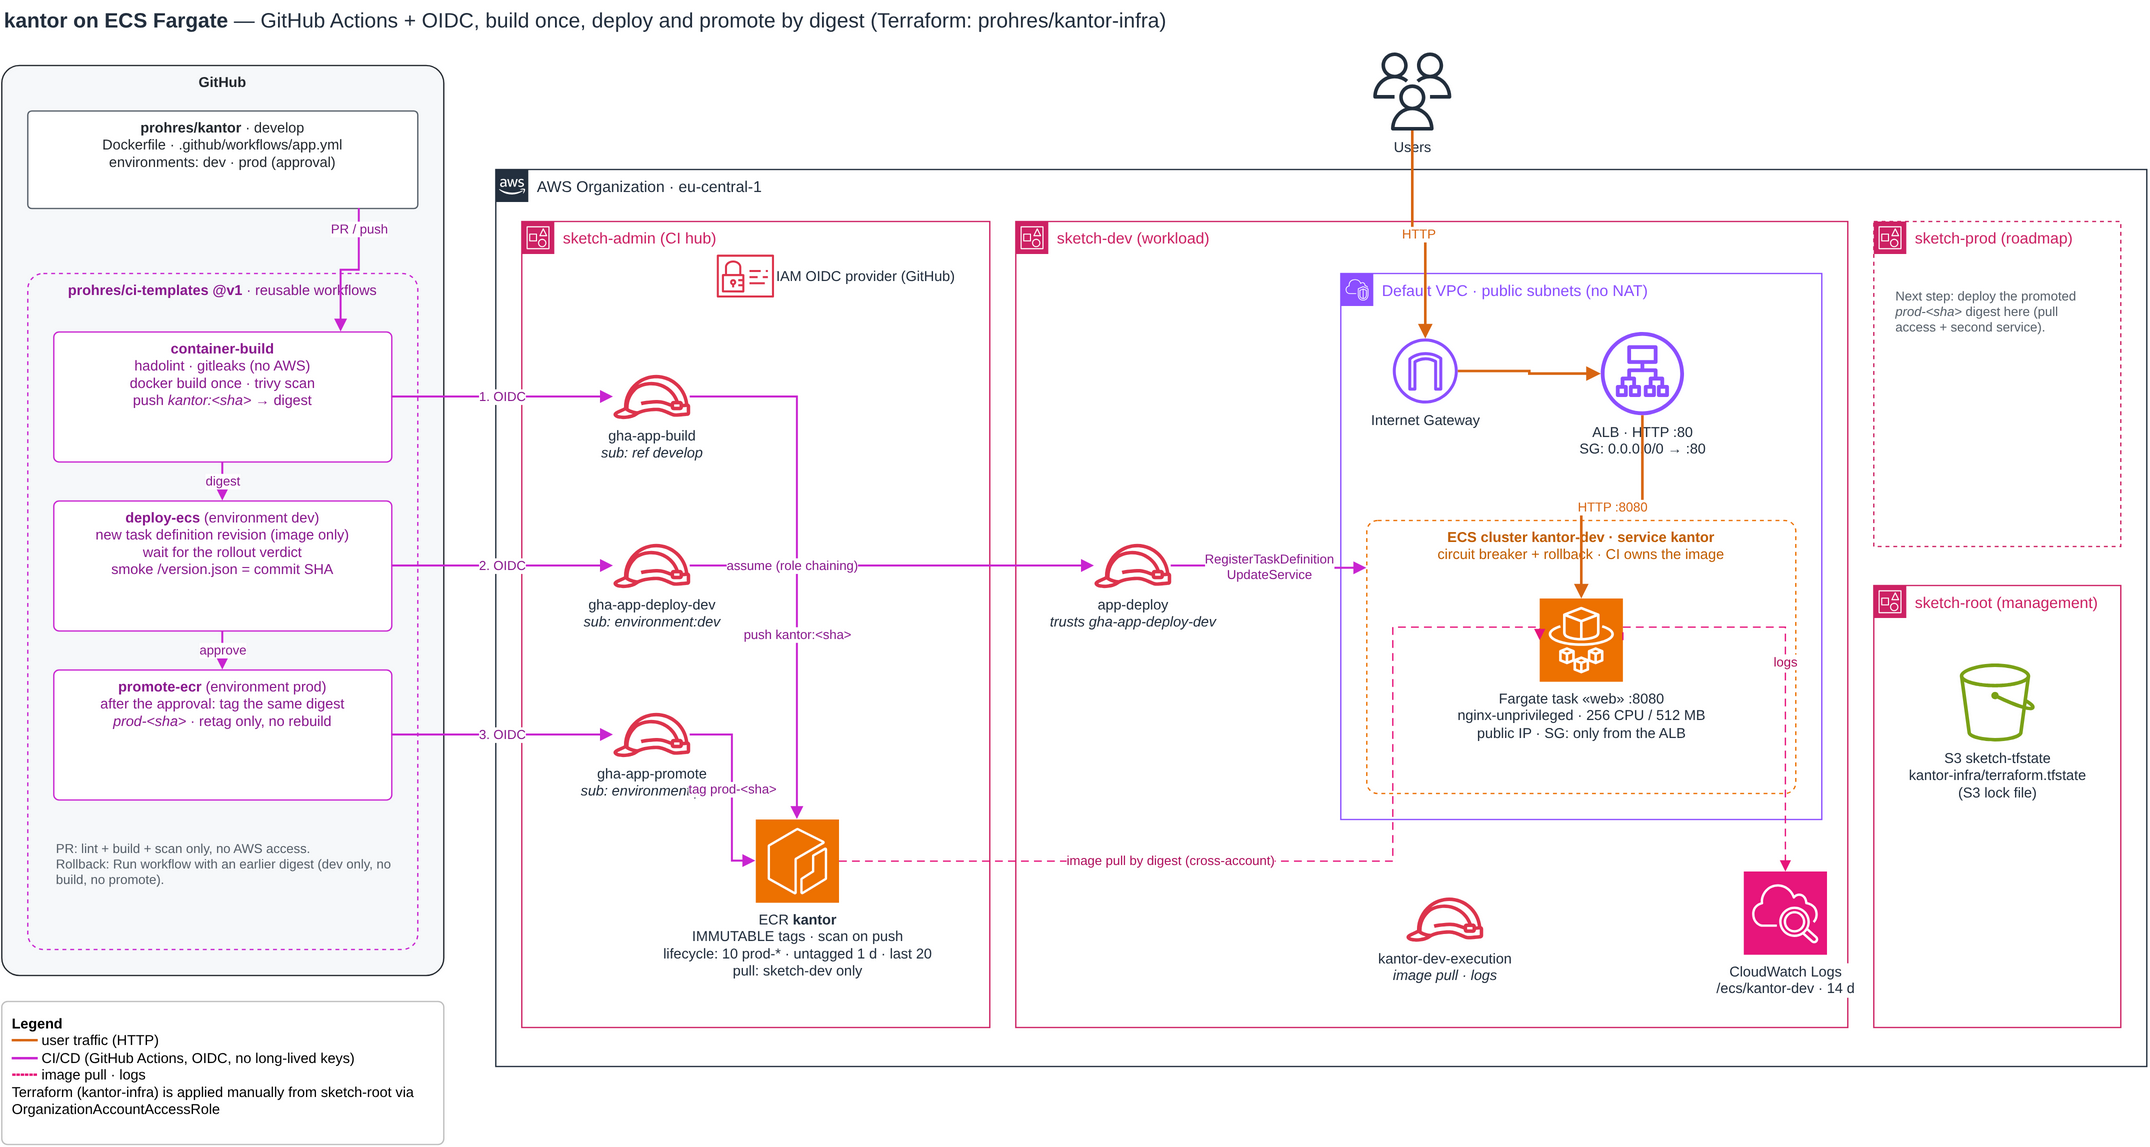
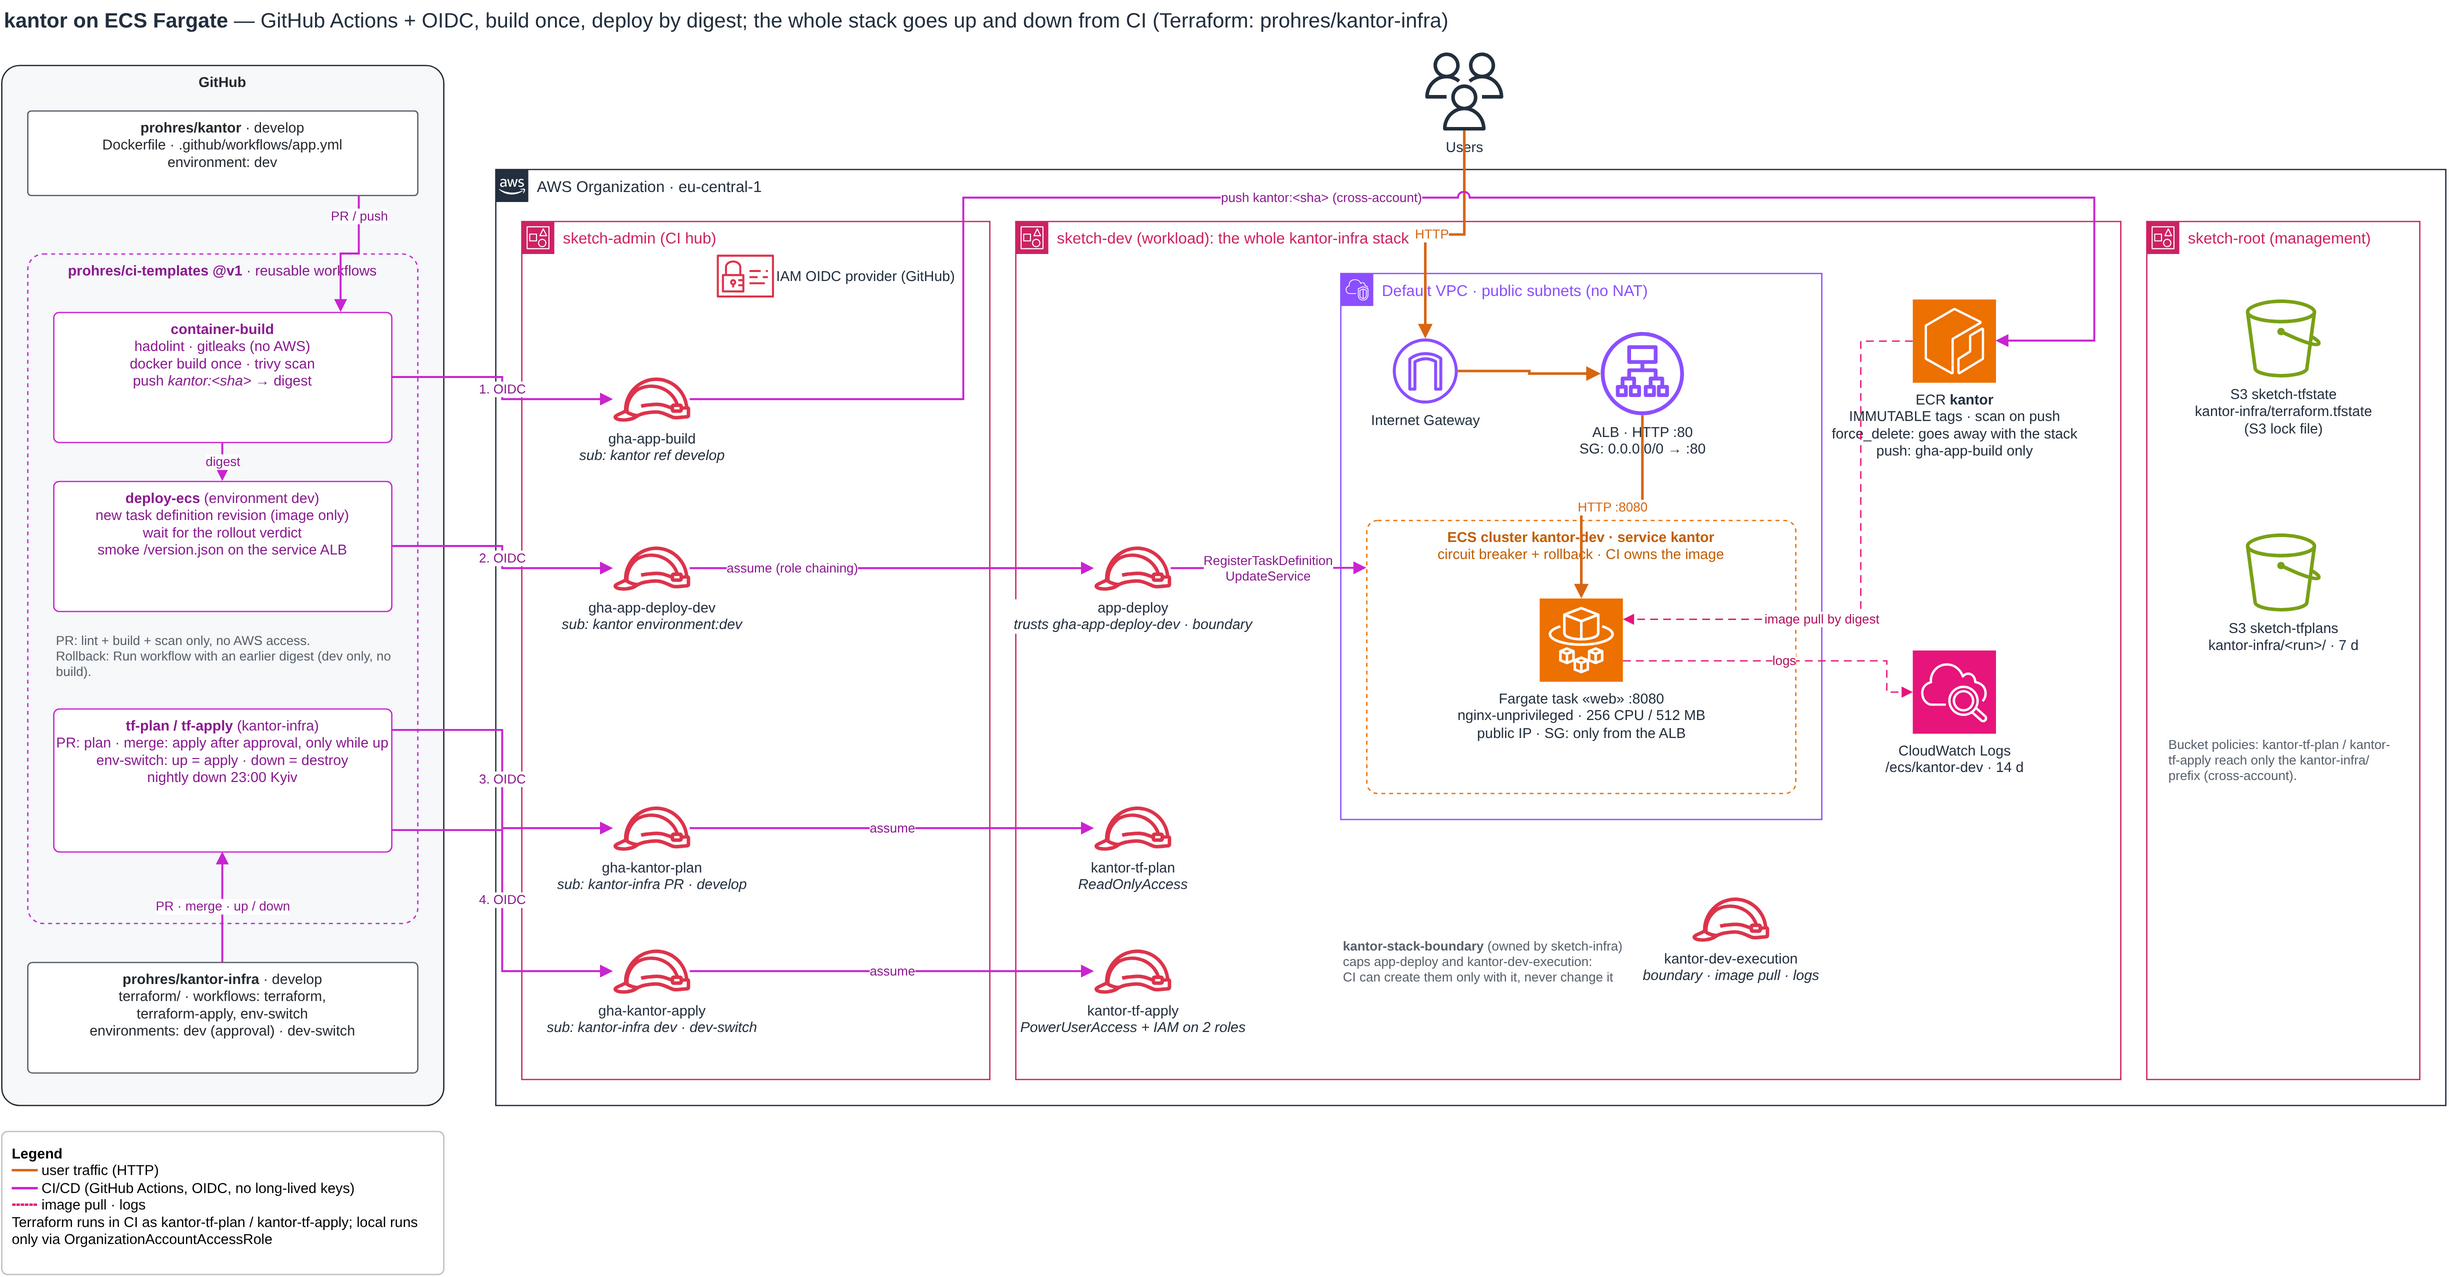
Update the architecture diagram for the single-account stack and up / down from CI

Changed region(s): [[0.0, 0.0, 1.0, 0.9765], [0.6233, 0.6103, 0.6544, 0.6713], [0.3428, 0.5493, 0.4051, 0.5798]]

diff --git a/README.md b/README.md
@@ -93,6 +93,5 @@ Prefer `env-switch` for up / down: CI runs as narrow roles; a local apply runs a
 
 - [ ] HTTPS: domain + ACM certificate
 - [ ] own VPC with private subnets
-- [ ] update the architecture diagram: registry in sketch-dev, up / down workflows
-- [x] architecture diagram (`architecture.drawio`) for the new setup
+- [x] architecture diagram (`architecture.drawio`): registry in sketch-dev, up / down workflows, CI roles and boundary
 - [x] Terraform CI for this repo: plan on PR, apply after approval, up / down and nightly down
